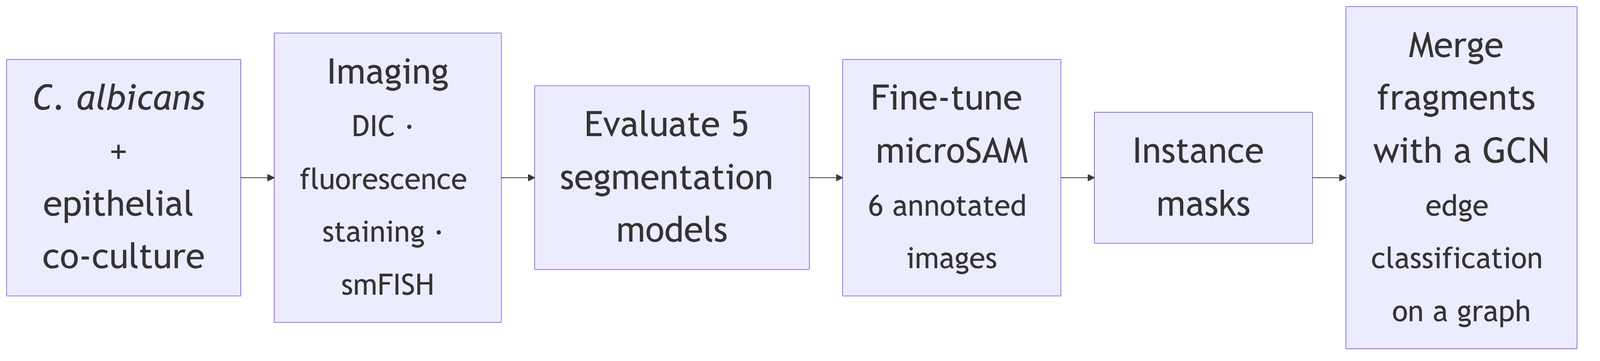
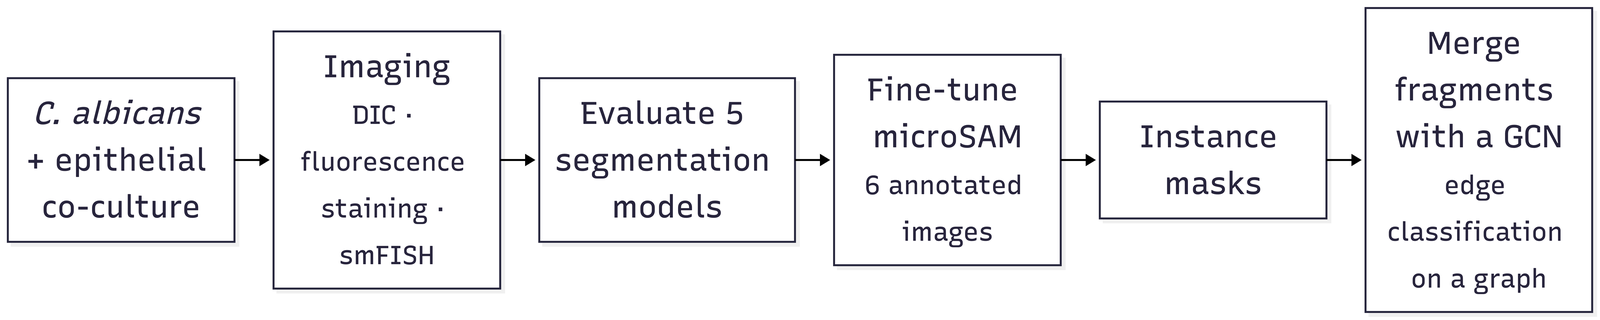
docs(readme): retitle project and refresh pipeline flowchart figure
- Rename the title to "Towards Invasion Modeling in C. albicans-Epithelial
  Cell Co-cultures: A Vision Transformer and Graph Neural Network
  Pipeline", since the project has not yet reached invasion detection
  itself and the prior title overstated current scope
- Regenerate the pipeline flowchart asset from the final version
  rendered in the online mermaid editor (enlarged legible text, plain
  white boxes, no drop shadow)

diff --git a/README.md b/README.md
@@ -1,4 +1,4 @@
-# *Candida albicans* Invasion Imaging & Analysis
+# Towards Invasion Modeling in *C. albicans*-Epithelial Cell Co-cultures: A Vision Transformer and Graph Neural Network Pipeline
 
 Code for my Master's thesis studying *C. albicans* invasion of epithelial cell layers.
 The pipeline segments cells and hyphae from co-culture microscopy images, fine-tunes a